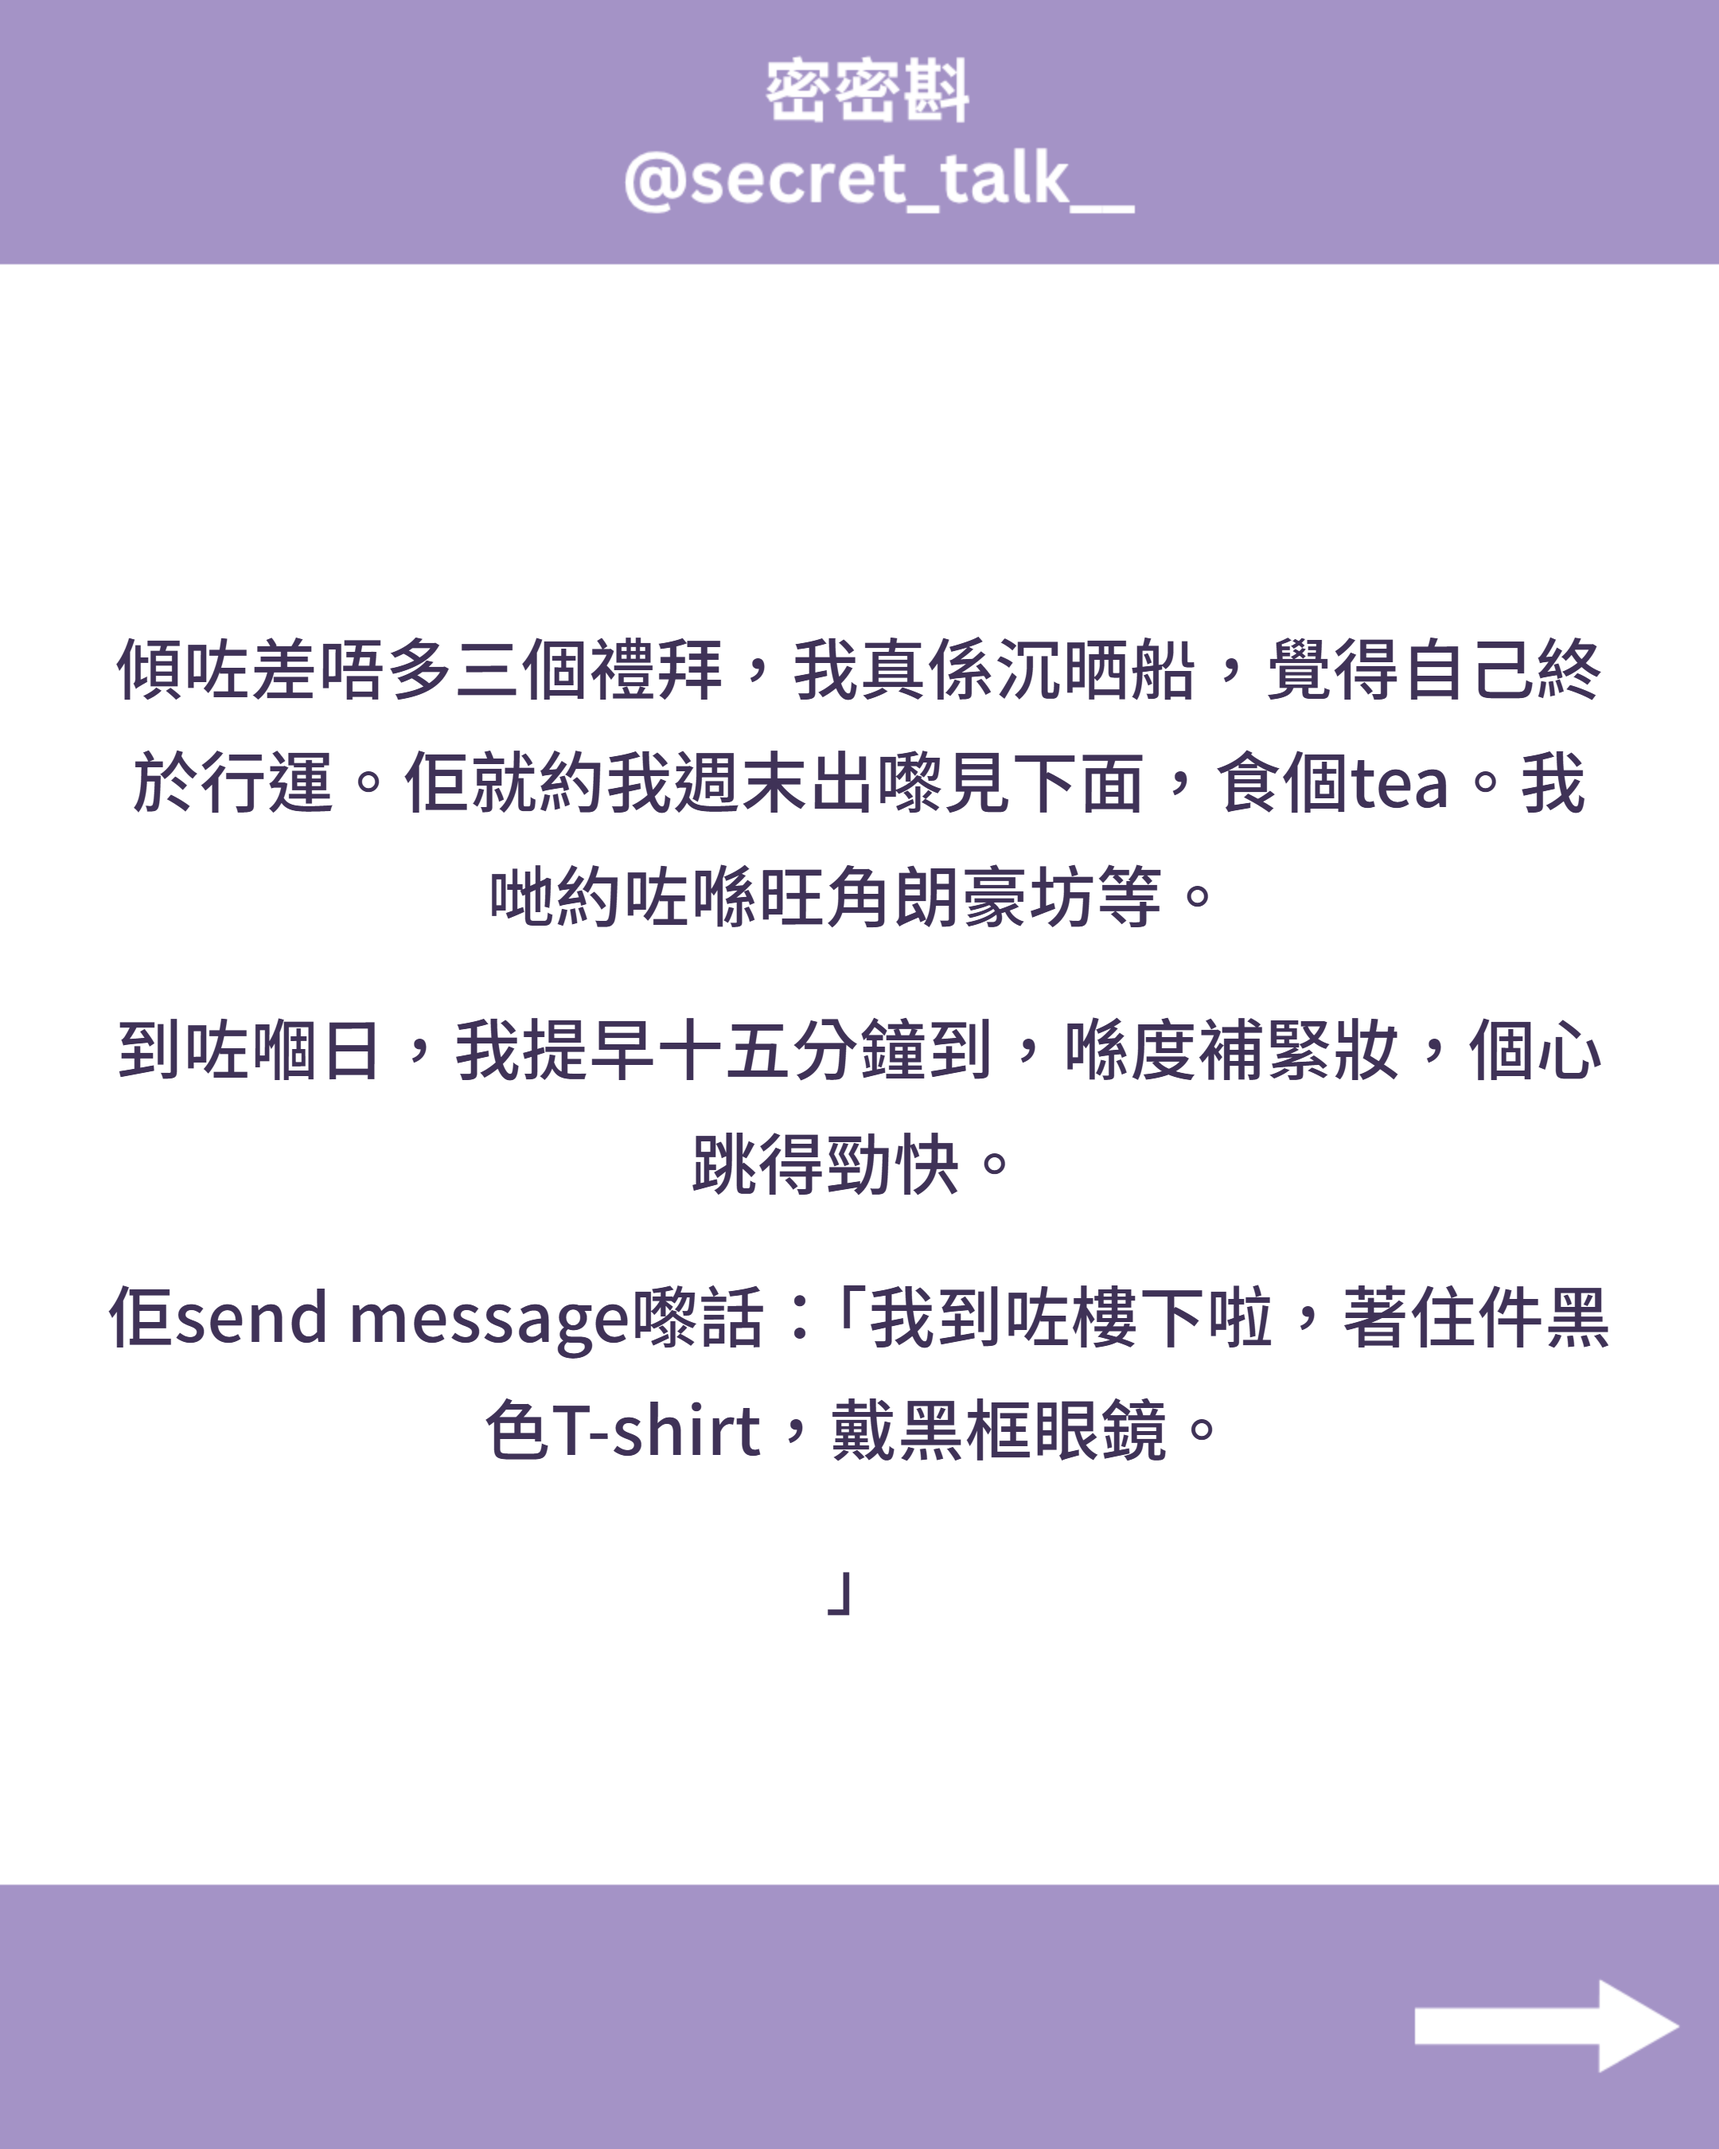
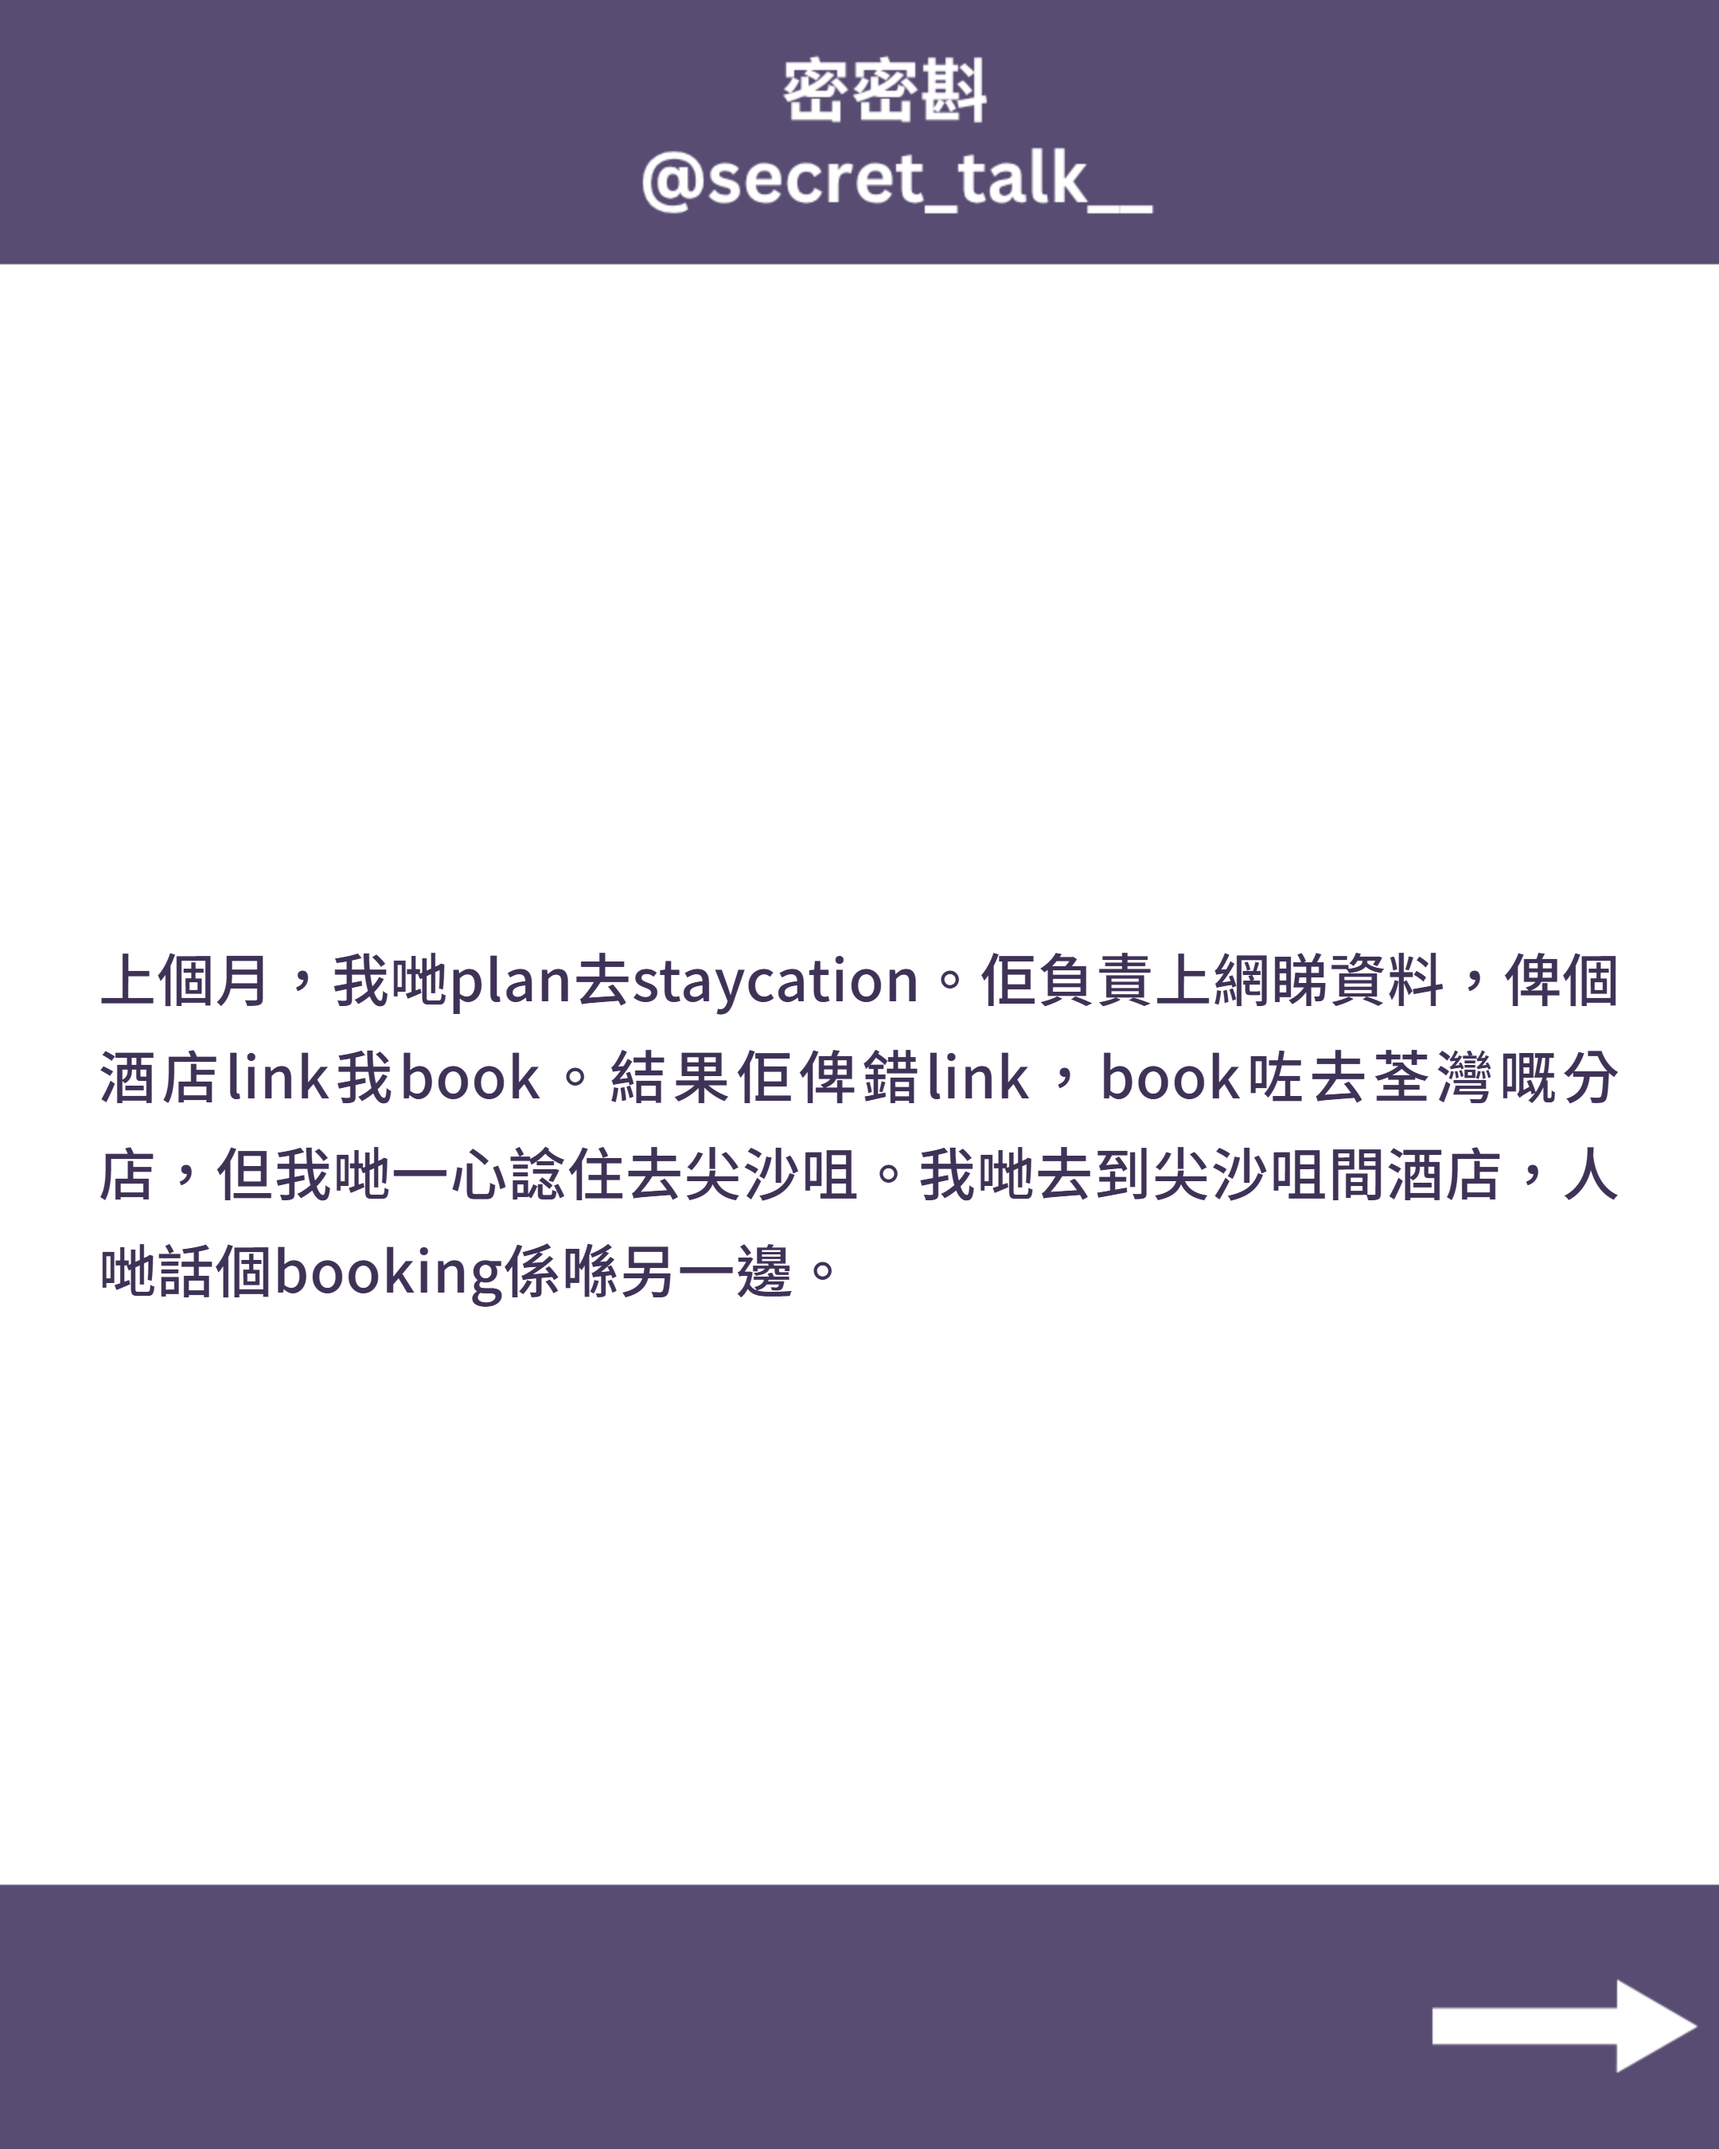
Fix text cutting and improve content flow - Step by Step
ISSUES FIXED:
1.  Text was being cut/truncated in the middle of sentences
2.  Content splitting was too aggressive (45-60 chars per page)
3.  Text alignment was centered, not flowing naturally left-to-right
4.  Sentences were being broken at wrong places

SOLUTIONS IMPLEMENTED:

 STEP 1: Increased Character Limits
- optimal_chars_per_page: 45  80 chars (+78% increase)
- max_chars_per_page: 60  120 chars (+100% increase)
- min_chars_per_page: 30  50 chars (+67% increase)
- Result: Less aggressive splitting, complete sentences preserved

 STEP 2: Smarter Sentence Splitting
- Prioritize major punctuation (。！？) for natural breaks
- Only use minor punctuation (；，) when sentences are very long
- Preserve semantic integrity of content
- Result: More natural content flow, no mid-sentence cuts

 STEP 3: Better Text Alignment
- Changed text-align from 'center' to 'justify'
- Result: Better left-to-right reading flow, professional appearance

 STEP 4: Adaptive Font Sizing
- 100+ chars: 36px (very long content)
- 80+ chars: 40px (long content)
- 60+ chars: 44px (medium content)
- 40+ chars: 48px (shorter content)
- Default: 42px (adjusted for more text per page)
- Result: Optimal readability for different content lengths

 STEP 5: Optimized Page Count
- Still generates 9 content pages + title + conclusion + end = 12 total
- But now with 10 pages optimized to 9, better content distribution
- Result: More balanced content per page

RESULTS:
 No more text cutting in middle of sentences
[…]

diff --git a/ming/run_custom_story.py b/ming/run_custom_story.py
@@ -1,0 +1,137 @@
+#!/usr/bin/env python3
+"""
+🎯 直接運行自定義故事生成（不使用 OpenAI）
+Direct custom story generation without OpenAI
+"""
+
+import os
+import sys
+import datetime
+import asyncio
+from custom_story_reader import read_custom_story, validate_custom_story_format
+from relationship_template_generator import generate_exact_custom_template
+from image_generator import generate_images_from_templates
+
+def generate_custom_story_images():
+    """
+    直接生成自定義故事圖片，不使用 OpenAI
+    """
+    print("\n=== 📝 自定義故事圖片生成（無需 OpenAI） ===")
+    
+    filename = "my_custom_story.txt"
+    
+    # 檢查檔案是否存在
+    if not os.path.exists(filename):
+        print(f"❌ 找唔到 {filename} 檔案")
+        print(f"💡 請確保 {filename} 檔案存在並包含你嘅故事內容")
+        return False
+    
+    try:
+        # 驗證故事格式
+        print("🔍 驗證故事格式...")
+        is_valid, message = validate_custom_story_format(filename)
+        if not is_valid:
+            print(f"❌ 故事格式錯誤: {message}")
+            print(f"💡 請檢查 {filename} 的格式")
+            return False
+        
+        # 讀取故事內容
+        print(f"📖 讀取故事內容 ({filename})...")
+        story_data = read_custom_story(filename)
+        
+        if 'error' in story_data:
+            print(f"❌ 讀取錯誤: {story_data['error']}")
+            print(f"💡 建議: {story_data['suggestion']}")
+            return False
+        
+        # 顯示讀取到的內容摘要
+        print("✅ 成功讀取故事")
+        print(f"📰 標題: {story_data['title']}")
+        print(f"📄 內容長度: {len(story_data['content'])} 字符")
+        print(f"❓ 結論: {story_data['conclusion']}")
+        print(f"🏷 關鍵詞: {', '.join(story_data['keywords'])}")
+        print("🎯 模式: 100% 原文保留，不做任何修改")
+        
+        # 使用故事數據中的視角信息
+        perspective = story_data.get('perspective', 'female')
+        
+        # 顯示視角檢測結果
+        if 'perspective_detection' in story_data:
+            detection = story_data['perspective_detection']
+            print(f"🎭 視角檢測結果:")
+            print(f"   📁 檔案名稱檢測: {detection['filename']}")
+            print(f"   📝 內容檢測: {detection['content']}")
+            print(f"   ✅ 最終選擇: {detection['final']} ({'男性視角' if detection['final'] == 'male' else '女性視角'})")
+        
+        # 生成 HTML 模板（使用原文不變模板）
+        print(f"\n=== 🎨 生成 HTML 模板（100% 原文保留，{perspective} 視角） ===")
+        
+        # 準備所有內容部分
+        content_parts = story_data['content_parts']
+        
+        templates = {
+            'title': generate_exact_custom_template(
+                story_data['title'], 
+                template_type="title",
+                perspective=perspective
+            )
+        }
+        
+        # 為每個內容部分生成模板
+        for i, content_part in enumerate(content_parts, 1):
+            if content_part.strip():  # 只處理非空內容
+                templates[f'story{i}'] = generate_exact_custom_template(
+                    content_part, 
+                    template_type="content",
+                    perspective=perspective
+                )
+        
+        # 結論模板
+        templates['conclusion'] = generate_exact_custom_template(
+            story_data['conclusion'], 
+            template_type="conclusion",
+            perspective=perspective
+        )
+        
+        # 結尾模板
+        templates['end'] = generate_exact_custom_template(
+            "完", 
+            template_type="end",
+            perspective=perspective
+        )
+        
+        # 生成圖片
+        print("\n=== 🖼 生成圖片 ===")
+        
+        # 使用 asyncio 運行圖片生成
+        image_files = asyncio.run(generate_images_from_templates(templates, perspective))
+        
+        if image_files:
+            print(f"✅ 成功生成 {len(image_files)} 張圖片")
+            for i, img_file in enumerate(image_files, 1):
+                print(f"  📄 {i}. {os.path.abspath(img_file)}")
+            
+            # 圖片生成完成
+            print("\n=== 📱 圖片生成完成 ===")
+            print("💡 圖片已成功生成，可以手動發送到 Telegram 或其他平台")
+            
+            # 記錄生成信息
+            story_data['generation_method'] = "用戶自定義故事（原文不變）"
+            story_data['generated_files'] = image_files
+            story_data['timestamp'] = datetime.datetime.now().strftime("%Y-%m-%d %H:%M:%S")
+            
+            print(f"\n📄 生成方法: {story_data['generation_method']}")
+            print("✅ 自定義故事處理完成！")
+            return True
+        else:
+            print("❌ 沒有成功生成任何圖片")
+            return False
+            
+    except Exception as e:
+        print(f"❌ 生成過程發生錯誤: {e}")
+        import traceback
+        traceback.print_exc()
+        return False
+
+if __name__ == "__main__":
+    generate_custom_story_images()

diff --git a/ming/relationship_template_generator.py b/ming/relationship_template_generator.py
@@ -17,14 +17,16 @@ def generate_exact_custom_template(content, template_type="content", perspective
     # Wrap in paragraph tags
     exact_content = f'<p>{exact_content}</p>'
     
-    # Adjust font size based on content length for better fit (increased sizes)
+    # Adjust font size based on content length for better fit with increased content per page
     content_length = len(content)
-    if template_type == "content" and content_length > 50:
-        font_size = "42px"  # Increased from 32px for longer content
+    if template_type == "content" and content_length > 100:
+        font_size = "36px"  # Smaller font for very long content (100+ chars)
+    elif template_type == "content" and content_length > 80:
+        font_size = "40px"  # Medium font for long content (80+ chars)
+    elif template_type == "content" and content_length > 60:
+        font_size = "44px"  # Larger font for medium content (60+ chars)
     elif template_type == "content" and content_length > 40:
-        font_size = "46px"  # Increased from 36px for medium content
-    elif template_type == "content" and content_length > 30:
-        font_size = "50px"  # Increased from 40px for shorter content
+        font_size = "48px"  # Large font for shorter content (40+ chars)
     
     # Choose styling based on template type with proper sizing for mobile display
     if template_type == "title":
@@ -49,7 +51,7 @@ def generate_exact_custom_template(content, template_type="content", perspective
     else:  # content pages
         bg_image = "content_page1_girl.png" if perspective == "female" else "content_page1_boy.png"
         if 'font_size' not in locals():  # Only set if not already set above
-            font_size = "48px"  # Increased default font size for content pages
+            font_size = "42px"  # Adjusted default font size for content pages with more text
         font_weight = "500"
         color = "#3f3257"
         content_class = "story-content"
@@ -99,7 +101,7 @@ def generate_exact_custom_template(content, template_type="content", perspective
                 color: {color};
                 line-height: 1.5;
                 font-weight: {font_weight};
-                text-align: center;
+                text-align: justify;
                 text-shadow: 2px 2px 4px rgba(255,255,255,0.9), -2px -2px 4px rgba(255,255,255,0.9);
                 letter-spacing: 0.5px;
                 {extra_style}

diff --git a/ming/custom_story_reader.py b/ming/custom_story_reader.py
@@ -212,10 +212,10 @@ def split_content_for_images(content, target_parts=3):
     paragraph_lengths = [len(p) for p in paragraphs]
     total_chars = sum(paragraph_lengths)
     
-    # 設定每頁最佳字數範圍（進一步減少以確保文字不會被截斷）
-    optimal_chars_per_page = 45   # 適合顯示區域的每頁字數（進一步減少到45字）
-    max_chars_per_page = 60       # 最大字數，確保不會溢出（減少到60字）
-    min_chars_per_page = 30       # 最小字數，避免頁面太空
+    # 設定每頁最佳字數範圍（增加字數以避免過度分割）
+    optimal_chars_per_page = 80   # 增加到80字，避免句子被切斷
+    max_chars_per_page = 120      # 增加到120字，確保完整句子
+    min_chars_per_page = 50       # 增加到50字，確保內容充實
     
     parts = []
     current_part = []
@@ -226,15 +226,24 @@ def split_content_for_images(content, target_parts=3):
         
         # 如果單個段落太長，嘗試按句子分割（但保留完整內容）
         if paragraph_len > max_chars_per_page:
-            # 按句子分割長段落，保留所有標點符號
+            # 更智能的句子分割，保留語意完整性
             sentences = []
             temp_sentence = ""
+            
+            # 先按主要標點符號分割
             for char in paragraph:
                 temp_sentence += char
-                if char in ['。', '！', '？', '；']:
+                # 主要句子結束標點
+                if char in ['。', '！', '？']:
                     if temp_sentence.strip():
                         sentences.append(temp_sentence.strip())
                     temp_sentence = ""
+                # 次要分割點（只在句子太長時使用）
+                elif char in ['；', '，'] and len(temp_sentence) > max_chars_per_page * 0.8:
+                    if temp_sentence.strip():
+                        sentences.append(temp_sentence.strip())
+                    temp_sentence = ""
+            
             # 加入剩餘內容
             if temp_sentence.strip():
                 sentences.append(temp_sentence.strip())
